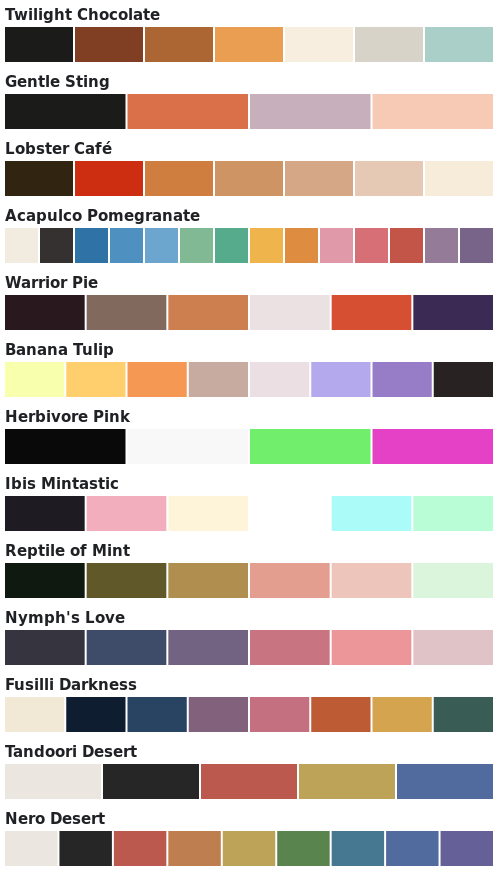
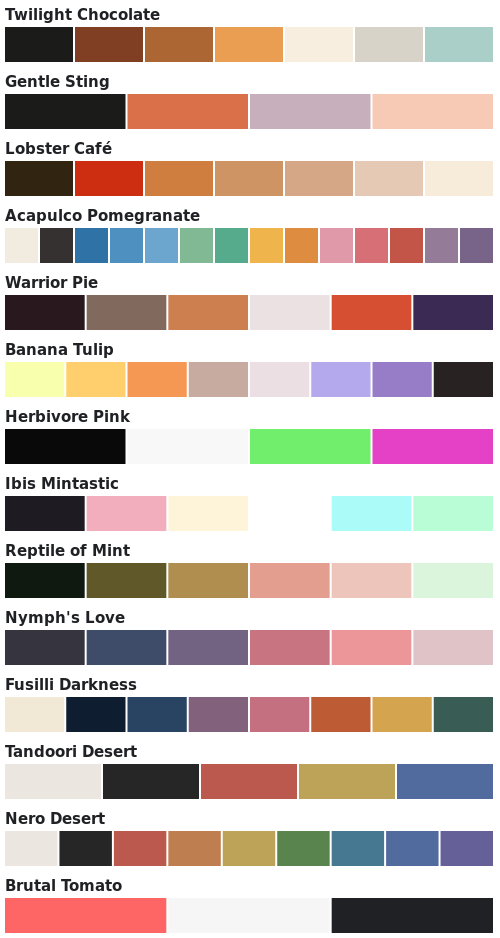
meodai published a site update

diff --git a/palettes.js b/palettes.js
@@ -3,7 +3,7 @@
   typeof define === 'function' && define.amd ? define(['exports'], factory) :
   (global = typeof globalThis !== 'undefined' ? globalThis : global || self, factory(global.colorPalettes = {}));
 })(this, (function (exports) { 'use strict';
-  const palettes = [{"name":"Twilight Chocolate","colors":["#1b1b19","#803e23","#ac6633","#ea9e52","#f7eedf","#d7d3c8","#aacfc8"]},{"name":"Gentle Sting","colors":["#1b1b19","#da704a","#c8afbc","#f6cab4"]},{"name":"Lobster Café","colors":["#312512","#cd2d10","#d07e40","#ce9464","#d6a786","#e5c9b5","#f7ebda"]},{"colors":["#f2ebdf","#353130","#2f72a6","#4e90c0","#6ca6ce","#80b994","#55ab8c","#f0b44c","#dd8c40","#e099a8","#d76f76","#c35448","#947b98","#786488"],"name":"Acapulco Pomegranate"},{"colors":["#29181e","#81695d","#ce7f50","#ebe1e2","#d74f32","#3b2a54"],"name":"Warrior Pie"},{"colors":["#f8ffad","#ffcf6e","#f49854","#c7aba1","#ecdfe3","#b4a9ec","#977cc7","#292222"],"name":"Banana Tulip"},{"colors":["#090909","#f8f8f8","#71ee6b","#e541c7"],"name":"Herbivore Pink"},{"colors":["#1e1b22","#f3aebd","#fdf4da","#ffffff","#abfcf8","#b9fdd6"],"name":"Ibis Mintastic"},{"colors":["#0f1910","#615829","#af8e4f","#e39e90","#edc5bb","#dbf5dc"],"name":"Reptile of Mint"},{"colors":["#36343f","#3e4c69","#726382","#c97481","#ec9699","#dfc3c7"],"name":"Nymph's Love"},{"colors":["#f1e9d6","#0f1d30","#284462","#82617c","#c47080","#bc5b34","#d4a44f","#395d54"],"name":"Fusilli Darkness"},{"author":"ippsketch","colors":["#ebe7e0","#262626","#bc594e","#bca357","#516b9e"],"name":"Tandoori Desert"},{"author":"ippsketch","colors":["#ebe7e0","#262626","#bc594e","#bf7e4f","#bca357","#5a844d","#467991","#516b9e","#656198"],"name":"Nero Desert"}]
+  const palettes = [{"name":"Twilight Chocolate","colors":["#1b1b19","#803e23","#ac6633","#ea9e52","#f7eedf","#d7d3c8","#aacfc8"]},{"name":"Gentle Sting","colors":["#1b1b19","#da704a","#c8afbc","#f6cab4"]},{"name":"Lobster Café","colors":["#312512","#cd2d10","#d07e40","#ce9464","#d6a786","#e5c9b5","#f7ebda"]},{"colors":["#f2ebdf","#353130","#2f72a6","#4e90c0","#6ca6ce","#80b994","#55ab8c","#f0b44c","#dd8c40","#e099a8","#d76f76","#c35448","#947b98","#786488"],"name":"Acapulco Pomegranate"},{"colors":["#29181e","#81695d","#ce7f50","#ebe1e2","#d74f32","#3b2a54"],"name":"Warrior Pie"},{"colors":["#f8ffad","#ffcf6e","#f49854","#c7aba1","#ecdfe3","#b4a9ec","#977cc7","#292222"],"name":"Banana Tulip"},{"colors":["#090909","#f8f8f8","#71ee6b","#e541c7"],"name":"Herbivore Pink"},{"colors":["#1e1b22","#f3aebd","#fdf4da","#ffffff","#abfcf8","#b9fdd6"],"name":"Ibis Mintastic"},{"colors":["#0f1910","#615829","#af8e4f","#e39e90","#edc5bb","#dbf5dc"],"name":"Reptile of Mint"},{"colors":["#36343f","#3e4c69","#726382","#c97481","#ec9699","#dfc3c7"],"name":"Nymph's Love"},{"colors":["#f1e9d6","#0f1d30","#284462","#82617c","#c47080","#bc5b34","#d4a44f","#395d54"],"name":"Fusilli Darkness"},{"author":"ippsketch","colors":["#ebe7e0","#262626","#bc594e","#bca357","#516b9e"],"name":"Tandoori Desert"},{"author":"ippsketch","colors":["#ebe7e0","#262626","#bc594e","#bf7e4f","#bca357","#5a844d","#467991","#516b9e","#656198"],"name":"Nero Desert"},{"name":"Brutal Tomato","colors":["#fe6666","#f6f6f6","#202125"]}]
 
   /**
    * @param {Array} palettes

diff --git a/palettes.esm.js b/palettes.esm.js
@@ -1,4 +1,4 @@
-const palettes = [{"name":"Twilight Chocolate","colors":["#1b1b19","#803e23","#ac6633","#ea9e52","#f7eedf","#d7d3c8","#aacfc8"]},{"name":"Gentle Sting","colors":["#1b1b19","#da704a","#c8afbc","#f6cab4"]},{"name":"Lobster Café","colors":["#312512","#cd2d10","#d07e40","#ce9464","#d6a786","#e5c9b5","#f7ebda"]},{"colors":["#f2ebdf","#353130","#2f72a6","#4e90c0","#6ca6ce","#80b994","#55ab8c","#f0b44c","#dd8c40","#e099a8","#d76f76","#c35448","#947b98","#786488"],"name":"Acapulco Pomegranate"},{"colors":["#29181e","#81695d","#ce7f50","#ebe1e2","#d74f32","#3b2a54"],"name":"Warrior Pie"},{"colors":["#f8ffad","#ffcf6e","#f49854","#c7aba1","#ecdfe3","#b4a9ec","#977cc7","#292222"],"name":"Banana Tulip"},{"colors":["#090909","#f8f8f8","#71ee6b","#e541c7"],"name":"Herbivore Pink"},{"colors":["#1e1b22","#f3aebd","#fdf4da","#ffffff","#abfcf8","#b9fdd6"],"name":"Ibis Mintastic"},{"colors":["#0f1910","#615829","#af8e4f","#e39e90","#edc5bb","#dbf5dc"],"name":"Reptile of Mint"},{"colors":["#36343f","#3e4c69","#726382","#c97481","#ec9699","#dfc3c7"],"name":"Nymph's Love"},{"colors":["#f1e9d6","#0f1d30","#284462","#82617c","#c47080","#bc5b34","#d4a44f","#395d54"],"name":"Fusilli Darkness"},{"author":"ippsketch","colors":["#ebe7e0","#262626","#bc594e","#bca357","#516b9e"],"name":"Tandoori Desert"},{"author":"ippsketch","colors":["#ebe7e0","#262626","#bc594e","#bf7e4f","#bca357","#5a844d","#467991","#516b9e","#656198"],"name":"Nero Desert"}]
+const palettes = [{"name":"Twilight Chocolate","colors":["#1b1b19","#803e23","#ac6633","#ea9e52","#f7eedf","#d7d3c8","#aacfc8"]},{"name":"Gentle Sting","colors":["#1b1b19","#da704a","#c8afbc","#f6cab4"]},{"name":"Lobster Café","colors":["#312512","#cd2d10","#d07e40","#ce9464","#d6a786","#e5c9b5","#f7ebda"]},{"colors":["#f2ebdf","#353130","#2f72a6","#4e90c0","#6ca6ce","#80b994","#55ab8c","#f0b44c","#dd8c40","#e099a8","#d76f76","#c35448","#947b98","#786488"],"name":"Acapulco Pomegranate"},{"colors":["#29181e","#81695d","#ce7f50","#ebe1e2","#d74f32","#3b2a54"],"name":"Warrior Pie"},{"colors":["#f8ffad","#ffcf6e","#f49854","#c7aba1","#ecdfe3","#b4a9ec","#977cc7","#292222"],"name":"Banana Tulip"},{"colors":["#090909","#f8f8f8","#71ee6b","#e541c7"],"name":"Herbivore Pink"},{"colors":["#1e1b22","#f3aebd","#fdf4da","#ffffff","#abfcf8","#b9fdd6"],"name":"Ibis Mintastic"},{"colors":["#0f1910","#615829","#af8e4f","#e39e90","#edc5bb","#dbf5dc"],"name":"Reptile of Mint"},{"colors":["#36343f","#3e4c69","#726382","#c97481","#ec9699","#dfc3c7"],"name":"Nymph's Love"},{"colors":["#f1e9d6","#0f1d30","#284462","#82617c","#c47080","#bc5b34","#d4a44f","#395d54"],"name":"Fusilli Darkness"},{"author":"ippsketch","colors":["#ebe7e0","#262626","#bc594e","#bca357","#516b9e"],"name":"Tandoori Desert"},{"author":"ippsketch","colors":["#ebe7e0","#262626","#bc594e","#bf7e4f","#bca357","#5a844d","#467991","#516b9e","#656198"],"name":"Nero Desert"},{"name":"Brutal Tomato","colors":["#fe6666","#f6f6f6","#202125"]}]
 
 /**
  * @param {Array} palettes
